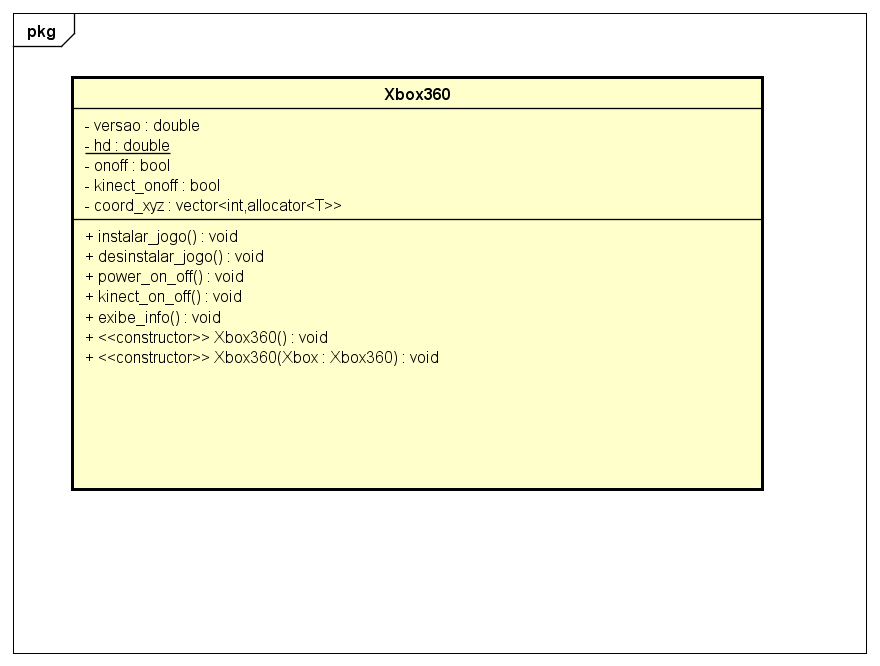
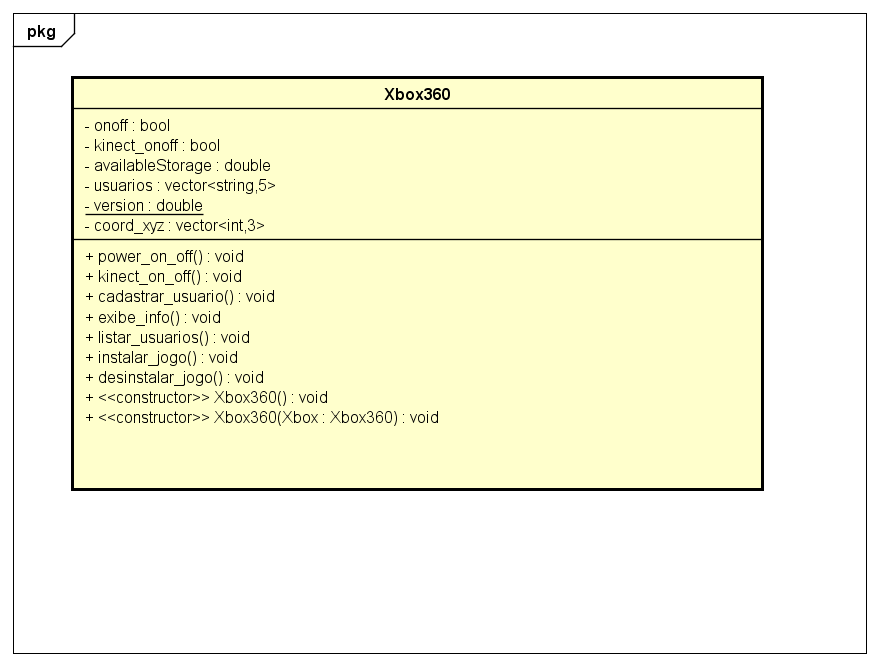
Finalizar sua classe com no mínimo dois atributos e três métodos, com .h e .cpp, assim como diagrama de classe atualizado. Um dos atributos deve ser do tipo string. A classe deve ter também dois construtores.

Changed region(s): [[0.092, 0.1802, 0.8591, 0.4505], [0.1227, 0.4805, 0.4602, 0.6306]]

diff --git a/Xbox360.cpp b/Xbox360.cpp
@@ -7,13 +7,17 @@ Xbox360::Xbox360()
 {
     onoff = false;
     kinect_onoff = false;
-    hd = 120.00;
-    versao = 1.0;
+    availableStorage = 120.00;
+    version = 1.0;
     coord_xyz[3] = { 0,0,0 };
+        for(int i = 0; i < 5; i++)
+        listaUsuarios[i] = "---"; 
+    
 }
 
 Xbox360::~Xbox360()
 {
+    
 }
 
 void Xbox360::power_on_off( )
@@ -21,13 +25,11 @@ void Xbox360::power_on_off( )
     if ( !onoff )
     {
         power_on_off = true;
-        cout << "*Aparelho liga*\n";
+        cout << "*Console liga*\n";
     }
     else
-        cout << "*Aparelho reseta*\n";
+        cout << "*Console reseta*\n";
 }
-
-
 
 void Xbox360::kinect_on_off( )
 {
@@ -39,11 +41,11 @@ void Xbox360::kinect_on_off( )
 
 void Xbox360::instalar_jogo()
 {
-    if( hd > 10.00 )
+    if( availableStorage > 10.00 )
     {
-        hd -= 10.00; //para simplificar, considera-se que cada jogo ocupe 10GB
+        availableStorage -= 10.00; 
         cout << "O jogo foi instalado com sucesso.\n"
-             << "Espaco livre: " << hd << " GB \n";
+             << "Espaco livre: " << availableStorage << " GB \n";
 
     }
     else
@@ -52,23 +54,45 @@ void Xbox360::instalar_jogo()
 
 void Xbox360::desinstalar_jogo()
 {
-    if( hd < 120.00)
+    if( availableStorage < 120.00)
     {
-        hd += 10;
+        availableStorage += 10;
         cout << "O jogo foi desinstalado com sucesso.\n"
-             << "Espaco livre " << hd << " GB \n";
+             << "Espaco livre " << availableStorage << " GB \n";
     }
     else
          cout << "Nao ha jogos a serem desinstalados.\n";
 }
 
-void Xbox360::exibe_info()
+void Xbox360::exibe_info() 
 {
     cout << "Informacoes de Sistema:\n";
     cout << "Xbox360 versao "<< versao <<".\n";
-    cout << "Espaco livre: "<< hd <<" GB.\n";
+    cout << "Espaco livre: "<< availableStorage <<" GB.\n";
     if (kinect_onoff)
         cout << "Kinect ligado.\n";
     else
         cout << "Kinect desligado\n";
+}
+
+void Xbox360::cadastrar_usuario( string newUser, int indice)
+{
+    if (onoff)
+    {
+        if( indice >= 0 && indice < 5)
+            listaUsuarios[indice] = newUser;
+        else
+            cout << "Nao pode ser cadastrado.\n";
+    }
+    
+}
+
+void Xbox360::listar_usuarios( ) const
+{
+    if( onoff )
+    {
+        cout << "Usuarios:\n";
+        for( int i = 0; i < 5; i++ )
+            cout << usuarios[i] << '\n';
+    }
 }

diff --git a/Xbox360.h b/Xbox360.h
@@ -1,13 +1,11 @@
+#include <string>
+using std::string;
+
 #ifndef XBOX360_H
 #define XBOX360_H
 
 class Xbox360
 {
-    double versao;
-    double hd;
-    int coord_xyz[3];
-    bool onoff;
-    bool kinect_onoff;
 public:
     Xbox360();
     ~Xbox360();
@@ -15,6 +13,16 @@ public:
     void kinect_on_off();
     void instalar_jogo();
     void desinstalar_jogo();
+    void exibe_info();
+    void cadastrar_usuario( string, int );
+    void listar_usuarios ( ) const;
+private:     
+    double version;
+    double availableStorage;
+    int coord_xyz[3];
+    bool onoff;
+    bool kinect_onoff;
+    string usuarios[5];
 };
 
 #endif // XBOX360_H

diff --git a/main.cpp b/main.cpp
@@ -1,13 +1,21 @@
 #include <stdio.h>
 #include <iostream>
 using std::cout;
-//Ainda não está terminada
+
 #include "Xbox360.h"
 
 int main(int argc, char **argv)
 {
 	Xbox360 Xbox;
     	Xbox.power_on_off();
-
-	return 0;
+    //Cadastrando usuarios
+    Xbox.cadastrar_usuario("Robert", 0);
+    Xbox.cadastrar_usuario("Jessica", 1);
+    Xbox.cadastrar_usuario("Barbara", 2);
+    Xbox.cadastrar_usuario("Humbert", 3);
+    Xbox.cadastrar_usuario("Jane", 4);
+    
+    Xbox.exibe_info();
+    Xbox.listar_usuarios();
+    return 0;
 }
